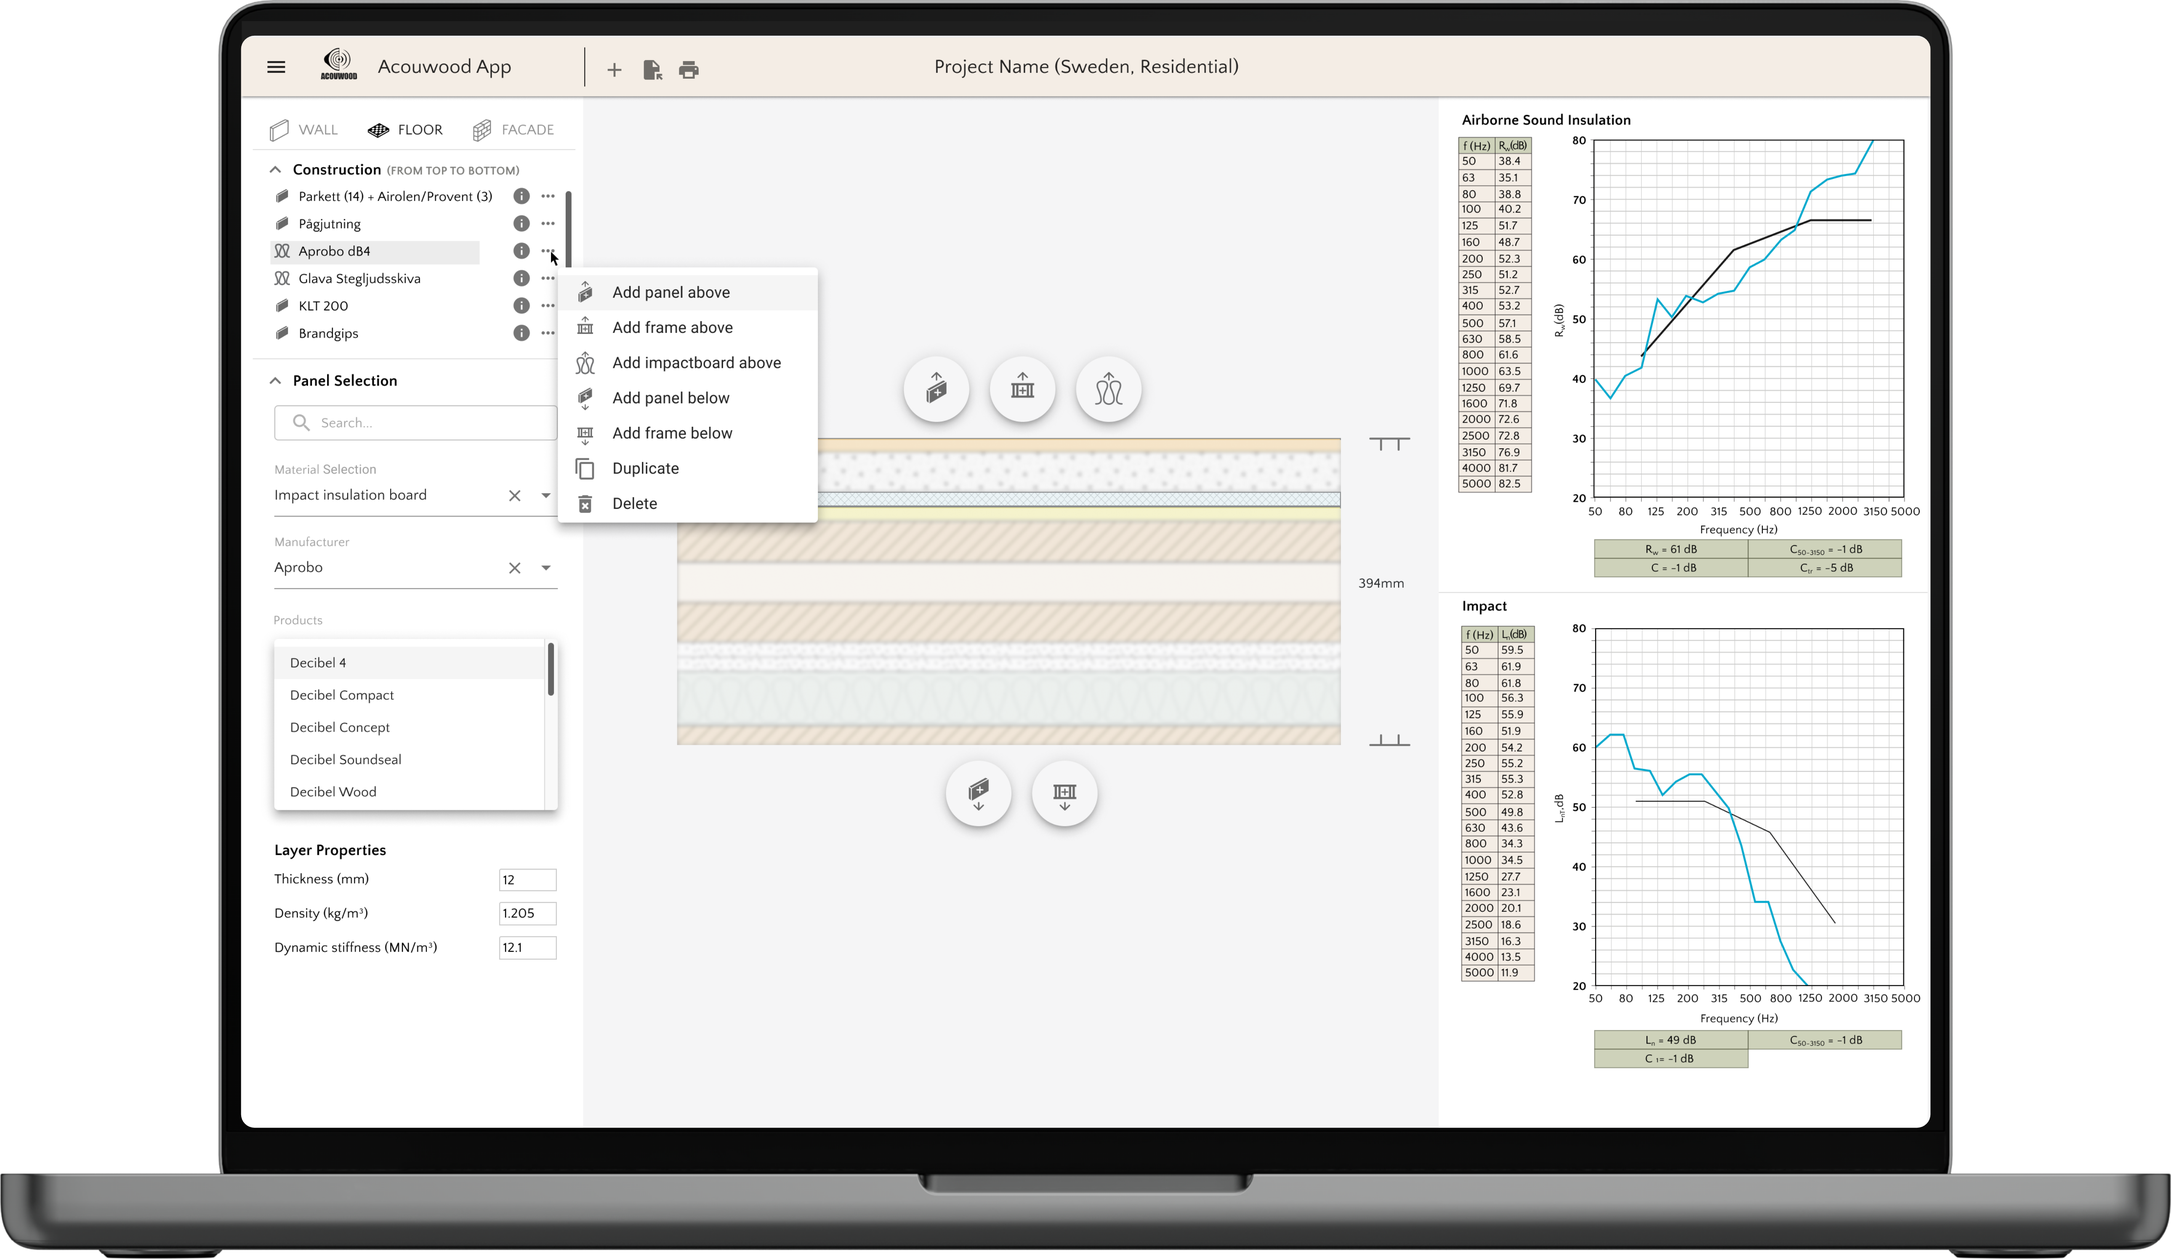
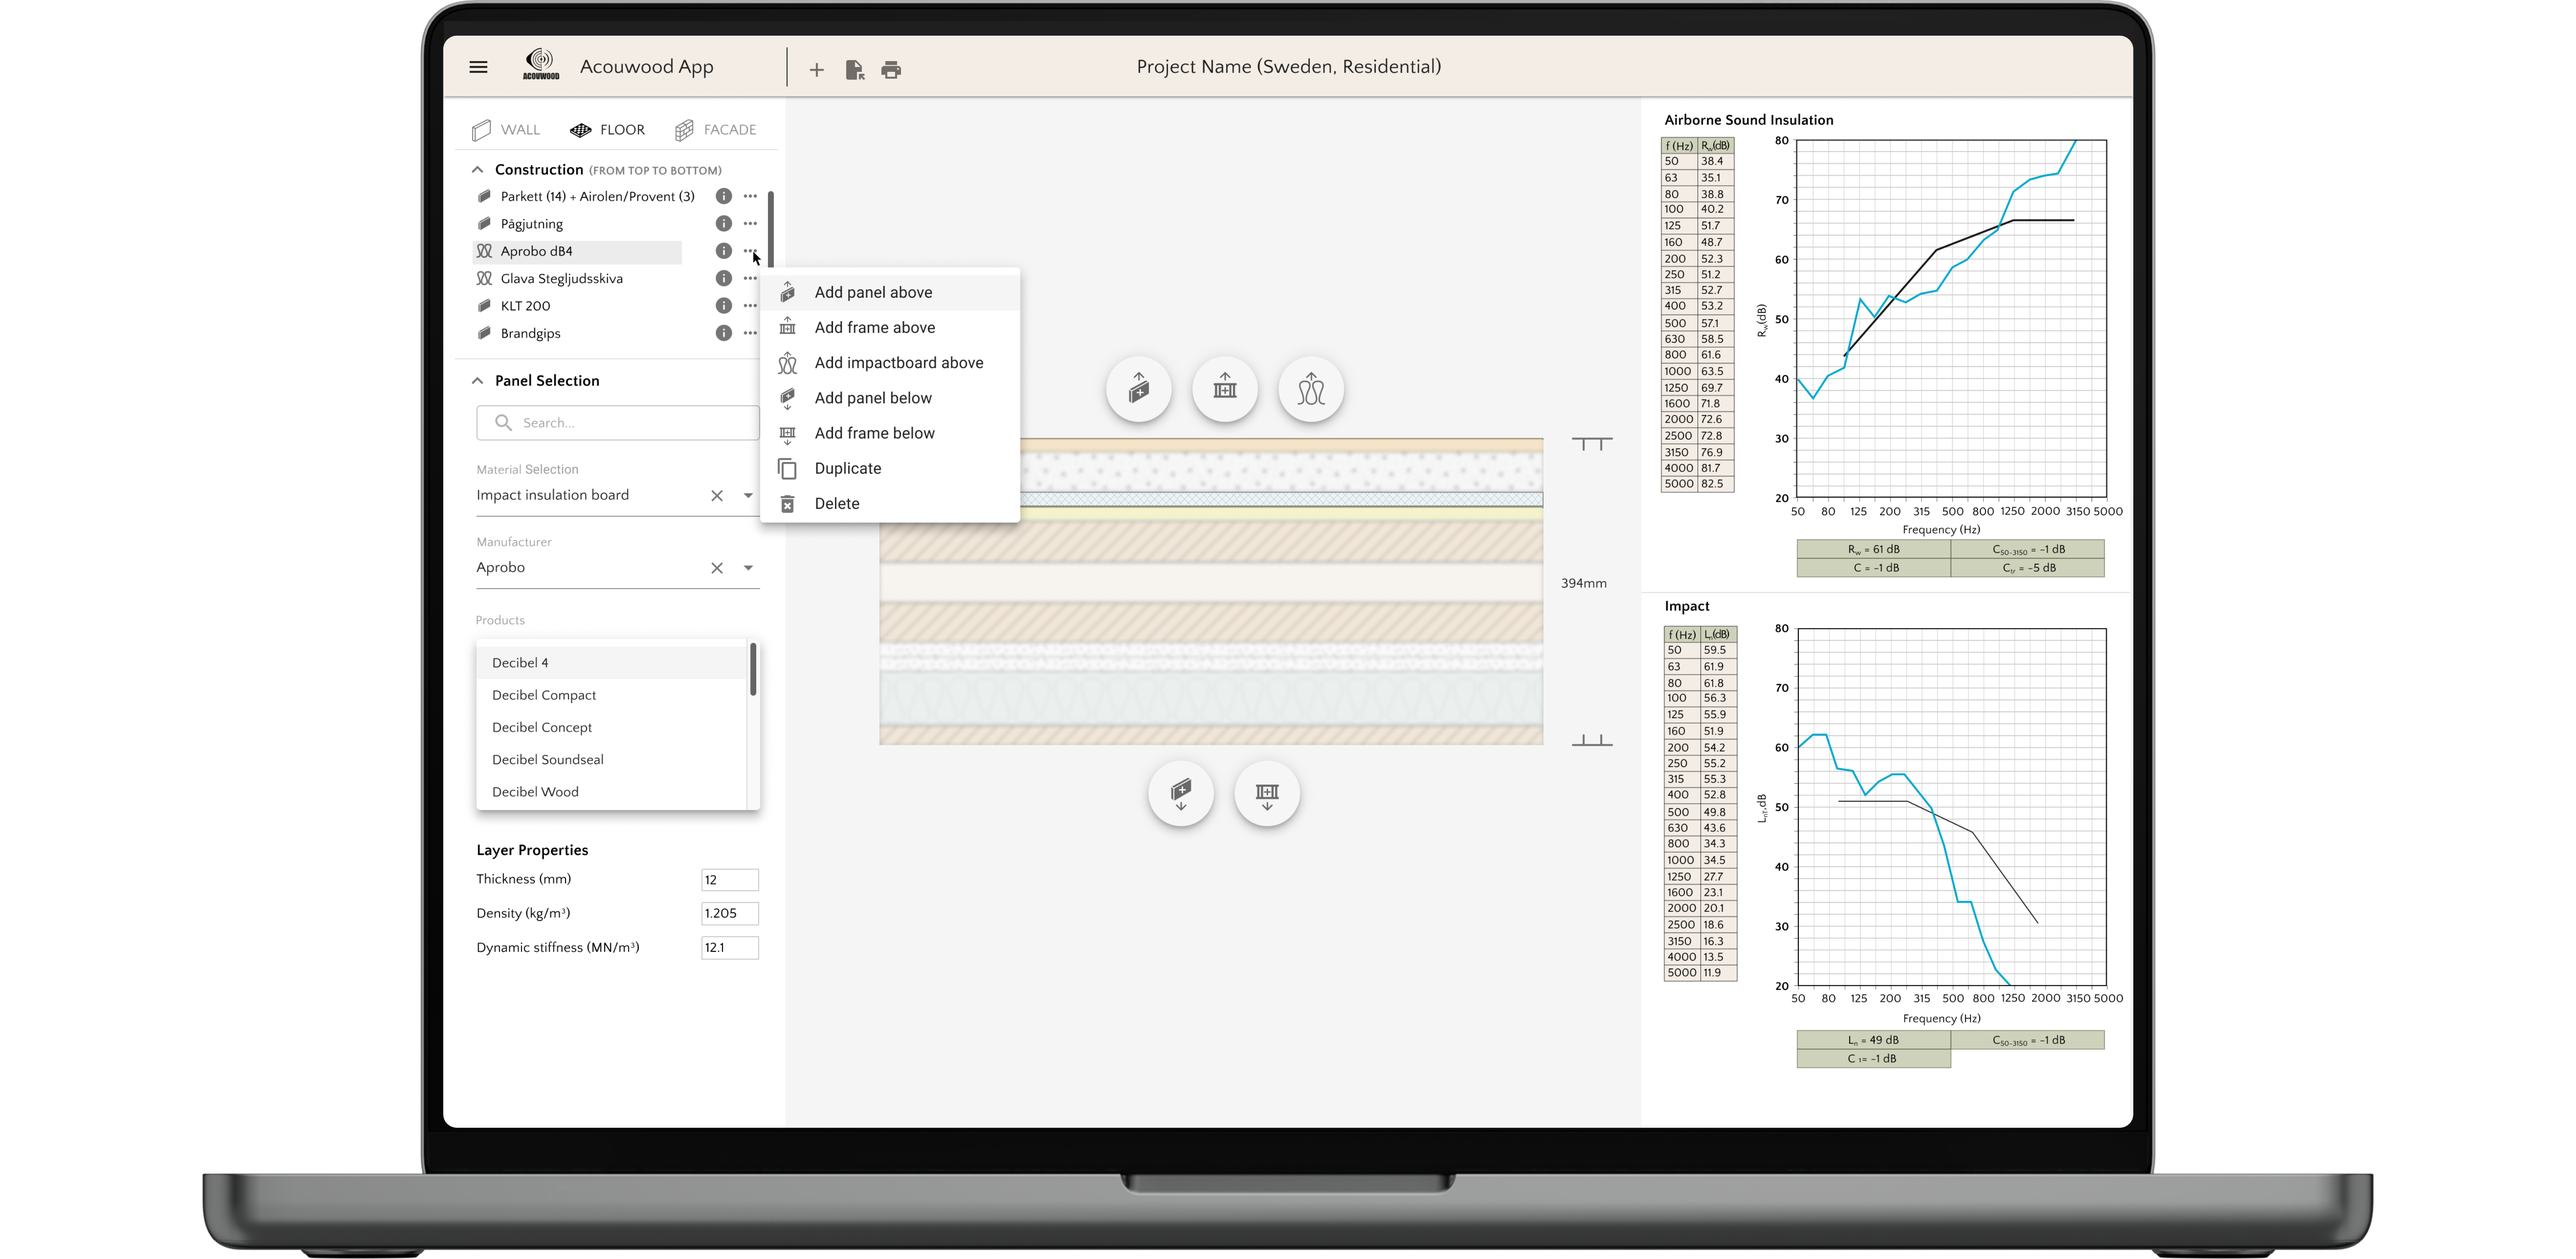
changes

diff --git a/bangolf.html b/bangolf.html
@@ -20,7 +20,7 @@
     <div class="content">
         <div class="header"><h3>Take me <a href="index.html">home</a>.</h3></div>
         <div class="project-text"><h1>Svenska Bangolfförbundet</h1><h2>The product owners, who are working with sound insulation of wooden houses, wanted an application which was tailored for their specific needs without compromising an intuitive user interface.</h2></div>
-        <div class="thumb"><img src="img/bangolf.png"></div>
+        <div class="thumb"><img src="img/bangolf1.png"></div>
 
 
         
